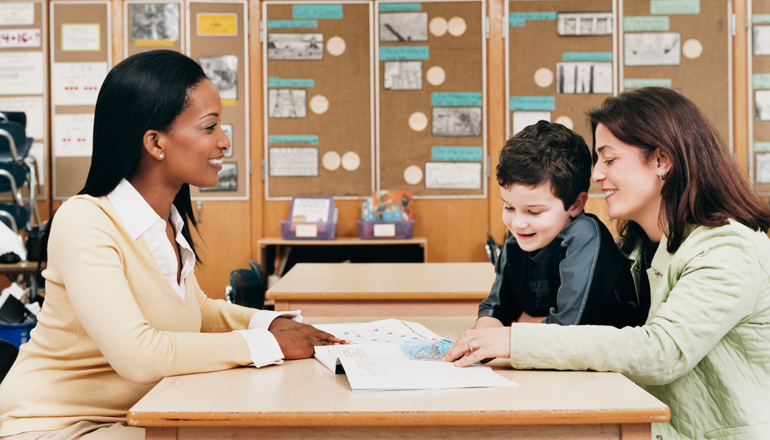
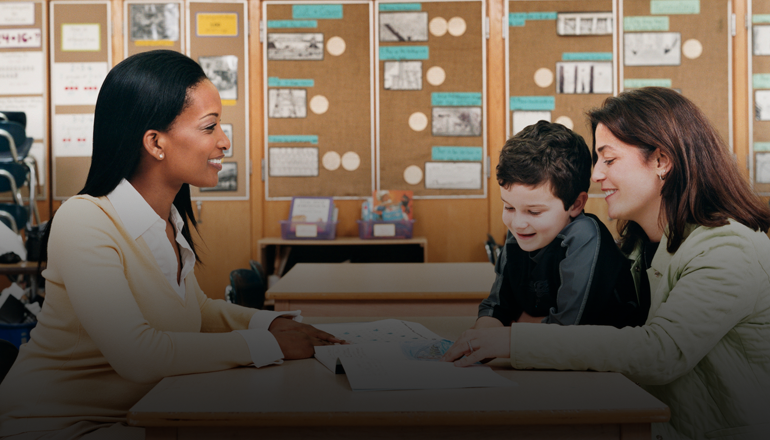
communication

diff --git a/templates/parentIndexPage.html b/templates/parentIndexPage.html
@@ -18,9 +18,9 @@
     <!-- card -->
     <div class="col s12 m6">
             <div class="grey darken-3 card hoverable">
-                <a href="/finance/">
+                <a href="/communication/">
                     <div class="card-image">
-                        <img src="{% static "home/finance.jpg" %}">
+                        <img src="{% static "home/teacherInteraction.png" %}">
                         <span class="card-title grey-text text-lighten-3" style="text-shadow: .05em .05em .25em black;">Communicate with teachers</span>
                     </div>
                 </a>
@@ -34,7 +34,7 @@
                 <div class="grey darken-3 card hoverable">
                     <a href="/finance/">
                         <div class="card-image">
-                            <img src="{% static "home/finance.jpg" %}">
+                            <img src="{% static "home/event.jpg" %}">
                             <span class="card-title grey-text text-lighten-3" style="text-shadow: .05em .05em .25em black;">Manage events</span>
                         </div>
                     </a>

diff --git a/templates/communication.html b/templates/communication.html
@@ -1,0 +1,22 @@
+{% extends 'base.html' %}
+{% block title %}Home{% endblock %}
+
+{% block content %}
+{% load static %}
+<div class="center-align">
+  {% if user.is_authenticated %}
+      {% if user.student.isParent %}
+        <h1>Remarks for {{ childsName }}</h1>
+        <h4 class="left-align">{{  teacher  }}:</h4>
+        <p class="flow-text left-align">{{  comments  }}</p>
+
+      {% else %}
+        <h1>Sorry, you are not a parent and therefore do not have permission to access this page.</h1>
+      {% endif %}
+  {% else %}
+    <h2>You are not logged in</h2>
+    <p><a class="waves-effect waves-light btn-large" href="{% url 'login' %}">login</a></p>
+    <p><a class="waves-effect waves-light btn-large" href="{% url 'signup' %}">Sign Up</a></p>
+</div>
+{% endif %}
+{% endblock %}

diff --git a/home/views.py b/home/views.py
@@ -20,6 +20,13 @@ def parentsFinancePage(request):
     context = {'childsName': childName, 'balance': balance,}
     return render(request, 'parentsFinance.html', context)
     
+def communicationPage(request):
+    childName = Student.objects.get(usrname=request.user.student.childName).displayName
+    comments = Student.objects.get(usrname=request.user.student.childName).comments
+    teacher = Student.objects.get(usrname=request.user.student.childName).teacher
+    context = {'childsName': childName, 'comments': comments, 'teacher': teacher}
+    return render(request, 'communication.html', context)
+    
 def store1(request):
     return render(request, 'store1.html')
     

diff --git a/home/migrations/0006_auto_20190515_2254.py b/home/migrations/0006_auto_20190515_2254.py
@@ -1,0 +1,23 @@
+# Generated by Django 2.2 on 2019-05-15 14:54
+
+from django.db import migrations, models
+
+
+class Migration(migrations.Migration):
+
+    dependencies = [
+        ('home', '0005_student_phonenumber'),
+    ]
+
+    operations = [
+        migrations.AddField(
+            model_name='student',
+            name='comments',
+            field=models.TextField(default='none'),
+        ),
+        migrations.AddField(
+            model_name='student',
+            name='parentsFeedback',
+            field=models.TextField(default='none'),
+        ),
+    ]

diff --git a/home/urls.py b/home/urls.py
@@ -9,6 +9,7 @@ urlpatterns = [
     path('', views.indexPage, name='home'),
     path('finance/', views.financePage, name='Finance'),
     path('finance/parent/', views.parentsFinancePage, name='Finance'),
+    path('communication/', views.communicationPage, name='Finance'),
     path('store1/', views.store1, name='Store1'),
     path('store2/', views.store2, name='Store2'),
     path('store3/', views.store3, name='Store3'),

diff --git a/home/migrations/0007_student_teacher.py b/home/migrations/0007_student_teacher.py
@@ -1,0 +1,18 @@
+# Generated by Django 2.2 on 2019-05-15 15:01
+
+from django.db import migrations, models
+
+
+class Migration(migrations.Migration):
+
+    dependencies = [
+        ('home', '0006_auto_20190515_2254'),
+    ]
+
+    operations = [
+        migrations.AddField(
+            model_name='student',
+            name='teacher',
+            field=models.CharField(default='', max_length=100),
+        ),
+    ]

diff --git a/home/models.py b/home/models.py
@@ -11,3 +11,6 @@ class Student(models.Model):
     money = models.DecimalField(decimal_places=2, max_digits=10, default=0.00)
     isPaid = models.BooleanField(default=False)
     phoneNumber = models.IntegerField(default=-1)
+    teacher = models.CharField(max_length=100, default='')
+    comments = models.TextField(default="none")
+    parentsFeedback = models.TextField(default="none")
